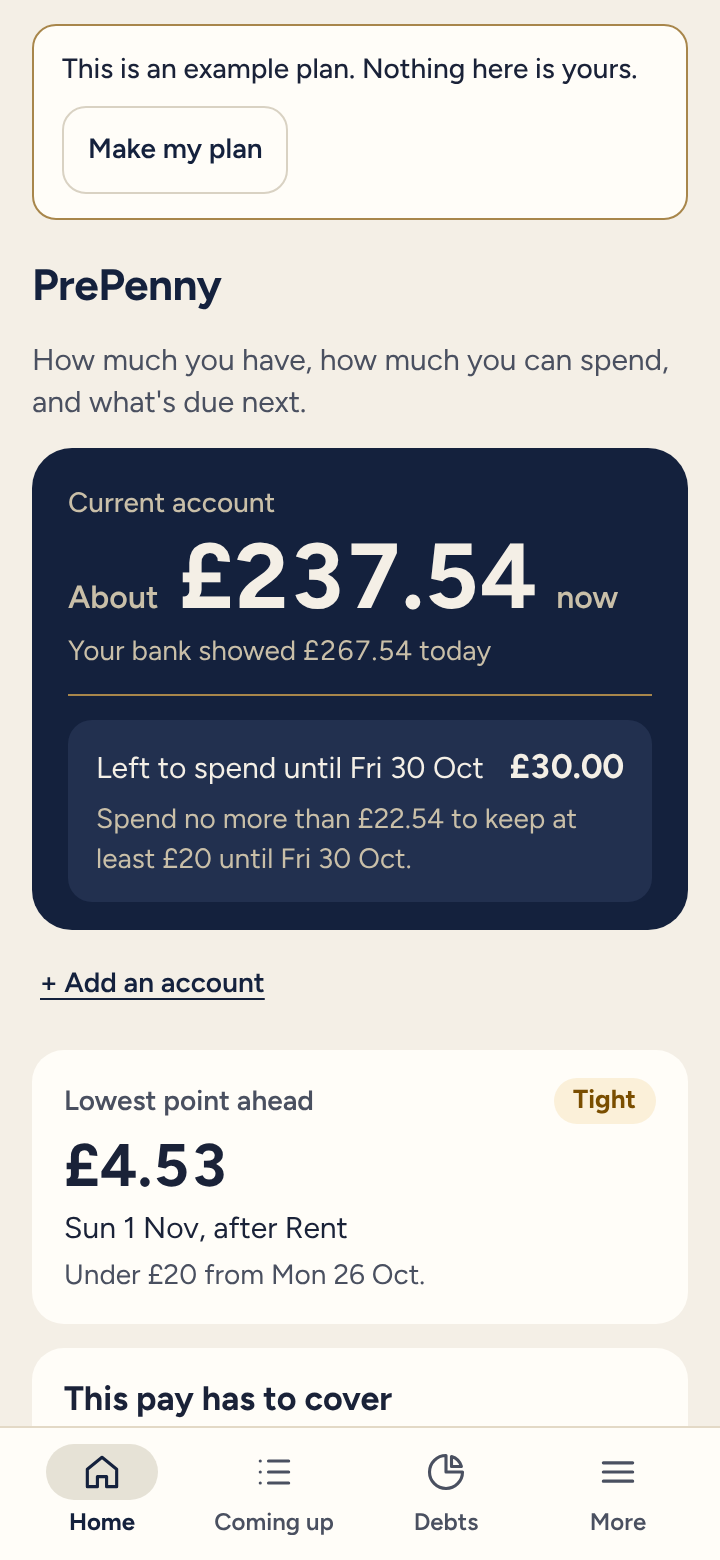
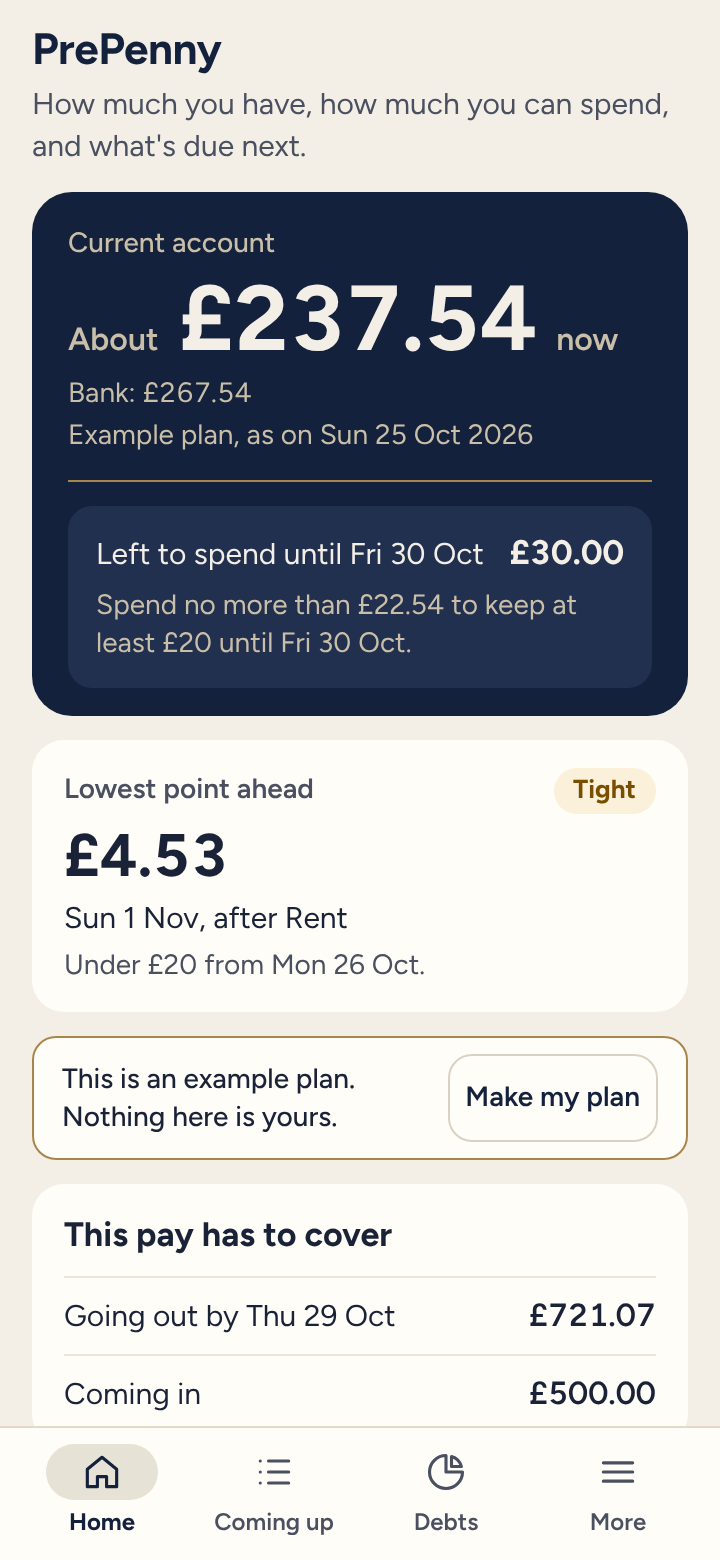
Step 3h: close what the outside review found (D481)
Deleting holds the person's plans, and removing a plan holds it, before
checking who's in it, so a partner joining at that moment is seen. A
lasting mark for everyone who has shared a plan, so importing a backup
can't get round "shared-plan". Nudges for the person's plans, and for
plans no longer there, go too. Putting a backup back skips anyone it
shouldn't touch. README part K: one Supabase setting, the database copy
of the sign-in log, off. 4 more database checks (66).

Claude-Session: https://claude.ai/code/session_01R7WB9spaRGhN1LPspox9RT

diff --git a/docs/ARCHITECTURE.md b/docs/ARCHITECTURE.md
@@ -748,7 +748,7 @@ The same pattern goes on every plan table. Every table starts with everything re
 - **Built in step 3f-2** (D426 to D437), in `supabase/migrations/20261114100000_bring_your_plan.sql`: `invites.allowed_at`; `app.invite_state` adds `allowed` (after `ran-out`, before `waiting`); `app.members_now` counts allowed invites as places taken; `app.plan_to_bring(person)` (their one plan, owned, nobody else in it); `app.invite_look(invite)` (step 3f's look, plus `invite` for the asker only, `brings` when a plan comes along, and `nation` and `own_nation` with it only once the invite is `allowed`, D439), used by `public.look_at_invite(token)` and the new `public.look_at_my_invite(invite)` (asker only). `public.answer_join` marks someone with a plan to bring `allowed_at` and nudges `plan:<their plan>:<them>`; `has-a-plan` for anyone in a plan they can't bring. `public.join_with_my_plan(invite, nation, edit, made_at)` (definer): locks the person's `people` row, the invite, the target plan (`for no key update`) and their own plan (`for update`, so every save to it finishes first or waits and fails); refuses `not-found`, the invite's state, `full`, `has-a-plan`, `nation-changed` (only when a plan comes along); adds the membership, begins the edit `join-with-plan`, sets `prepenny.edit` and calls `app.move_plan(old, target, me)`: reads every row of the old plan (live and removed) into `jsonb`, folds `private_links` back onto their series and ticks, moves `edits` (`private_to` the person), deletes the old plan, then inserts each row into the target through every trigger (`jsonb_populate_record`), parents first, a family's own series first, with `private_to`/`belongs_to` the person on accounts, debts, goals and pay profiles, `locked_to`/`mirrored_by` emptied on series, and ids from `app.derived_id(target, …)` for `payment_changes`, `ticks`, `pay_adjustment_details` and `settings`. Any other error is `bad-record`; then `app.family_rules_problem` on the moved families; the invite is `accepted`; nudges `plan:<target>`, `plan:<target>:<me>` and `plan:<old>:<me>`. `app.one_plan_each` refuses a new plan while its owner is in any plan (D427). `public.sharing` gives `asker` for an allowed invite and counts it as open. `app.my_joining()` and `hello()`'s `joining`. Tests: `25-bring-your-plan.test.sql`; `08`, `14`, `15` and `23` changed for D427 (D427 says how). Phone: `lib/sharing.ts` (`InviteLook.invite`, `.brings`, `.holidays` (only for an allowed invite, `lookOf`), `lookAtMyInvite`, `joinWithMyPlan`, `joiningOf`, `finishJoiningLink`, `inviteIdFrom`, problems `nation-changed` and `could-not-move`; `inviteLink` from `siteOrigin()`), `lib/site.ts` (`LIVE_SITE`, `OLD_LIVE_HOST`, `siteOrigin`, `liveAddressFor`), `data/joining.ts` (from `hello`), `data/sync.ts` (`sendEverythingThen`, which sends the queue then runs a task `inTurn` once nothing is waiting; `heldOnlyHere`). Screens: `JoinScreen.tsx` (bring lines, the bank holidays line, `allowed` with "Bring my plan and join" or straight away, `#invite=` from "Finish joining", saves an unsaved phone plan first with `connectPlan`), `FinishJoining.tsx` (in `AppShell`'s notes), `JoinRequest.tsx` and `ShareScreen.tsx` (`allowedBringing`), `OldAddress.tsx` (in `app/layout.tsx`). Cloudflare: `apps/web/cloudflare/worker.ts` (`movedTo`: a page visit at `OLD_LIVE_HOST` → 301 to `LIVE_SITE` with its path and query; anything else `env.ASSETS.fetch`), `wrangler.jsonc` `main`, `assets.binding` `ASSETS` and `run_worker_first` (`/*` but not `/_next/*`, `/version.json`, `/sw.js`, `/icons/*`, `/engine-worker-*` or `/manifest.webmanifest`, D438). `app.can_still_join` and `app.withdraw_other_asks` (D438); `answer_join` locks the asker's `people` row before the invite; `join_with_my_plan` checks `plan_to_bring` again after locking the old plan. Fixes: `withKind` in `lib/setup-forms.ts` (StepAccounts' `named` and AccountSheet's), `HomeView.account.now` (the engine's `expected`) and `movedSinceCheck` in `lib/home.ts`, `BalanceCard`'s `now`, `figureStyle(text, extra)`, Home's "+ Add an account" opening `AccountSheet`. Tests: `e2e/sharing.spec.ts` test 4, `e2e/answers-3f-2.spec.ts`, `e2e/old-address.spec.ts` with `e2e/old-address.wrangler.jsonc` (a second Wrangler on port 4174, over https with Wrangler's own certificate, in `playwright.config.ts`'s `webServer` list, as Chrome only opens `.dev` addresses over https; its browser is told prepenny.co.uk doesn't exist, so the live site is never opened, D439).
 - **Built in step 3g** (D454 to D466), in `supabase/migrations/20261115100000_living_together.sql`: `app.edit_records` (one row per record an edit saved: `before`/`after` from `app.history_copy`, `before_private`/`after_private`, `before_version`/`after_version`, `n` for the order; no policies, never on the Data API), filled by `app.keep_history()`, the trigger `z_keep_history` after insert or update on every record table and `plans` while `prepenny.edit` is set (none for `first-copy` or `join-with-plan`). `app.readable_now(plan, table, id)`, `app.version_now(...)`, `app.undoable(kind)`, `app.is_undone(edit)`, `app.undo_problem(plan, edit)` (`not-found` for anyone else's, `cant-undo`, `undone-already`, `changed-since`). `public.plan_activity(plan, older_than)` (definer: the person's own edits and the plan's shared ones, 12 months until D469, 50 at a time with `more`; each with `by`, `made_at`, `kind`, `mine`, `undone`, `undoes`, `can_undo`, `summary` for `change-role`/`make-private`/`share-record`, and `records`: copies readable then and now). `public.undo_change(plan, undone, edit, made_at)` (invoker: `app.undo_writes` then `save_edit(…, 'undo', writes)` then `app.mark_undone`, which sets `edits.undone_by` and the undo's `summary.undoes`). `public.change_role(plan, person, role)` (owner only; an `edits` row of kind `change-role`). `public.make_private(plan, what, record, edit, made_at)` and `public.share_record(plan, what, record, edit, made_at)` (`prepenny.sharing` holds the record; `app.privacy_step` in the replaced `app.check_owned_record` and `app.check_goal` lets only these steps change privacy; `app.put_links_back` and `app.keep_links_apart` keep links where `lib/sync-rows.ts` puts them; refusals `not-yours`, `partner-things`, `goal-here`, `move-together`, `share-has-halves`, `goal-in-private-account`, `view-only`). `public.plan_changes` gives each row's `edit_kind` and `created_by`. `app.check_series` lets a locked shared half name a shared goal (D464). Tests: `26-living-together.test.sql`. Engine: `NewOtherHalf.goalId`. Phone: `MirrorRow.editKind`/`createdBy`, `PlanLink.roles`, `data/shared-plan.ts` (`roles`, `sharedDebts`, `sharedGoals`, `lockedToAnyone`, `addedBy`, `marks`, `seriesVersion`, `hasPartner`, `myRole`, `partnerOf`), `lib/changed-by.ts` (`lastChange`, `agoWords`, `rowLine`, `changedByWords`), `lib/activity-words.ts` (`activityWords`, `activityEditsFrom`), `lib/put-in.ts`, `lib/sharing.ts` (`planActivity`, `undoChange`, `changeRole`, `makePrivate`, `shareRecord`), `GoalCard.savedFrom` and `startingAmount` in `lib/money-views.ts`. Screens: `ActivityScreen.tsx` (`/app/activity/`), `ChangedBy.tsx` (`ChangedByProvider` in `AppShell`, `useRowChangedBy`, `useSheetChangedBy`, `useShared`), `PaymentRow`'s `changedBy`, the edit sheet's line, `ShareScreen.tsx`'s `RoleSheet`, `ShareAccountsScreen.tsx`'s shared card, `WhoSees.tsx`, `StepSheet.tsx`, `privacy-step.ts`, and the goal sheet's move through `addPaymentCommand`. Tests: `e2e/together.spec.ts` (in the sign-in projects), `test/unit/living-together.test.ts`. From the outside review (D467): `app.server_kind(kind)`, `app.others_in(plan)` and `app.check_made_at(text)`; `save_edit`, replaced with the step 3d body, refuses the server's own kinds and a first copy beside anyone else ("bad-edit"); `make_private` holds its record `for update`, refuses ("partner-things", no ids) the other person's private links on the account's payments or holding a link's derived id, and saves again the person's own removed records on the account (not removed transfers to another account, nor removed halves); `app.put_links_back` writes only shared payments and the person's own; `app.keep_links_apart` never takes over another person's link. Tests: `27-living-together-review.test.sql`.
 - **Leaving and the lasting record** (step 3g, D468 to D474), in the same migration: `app.edit_records.context` (for a one-off change or a tick, its series or budget as it was then, for "from £550.00"). `public.plan_activity` keeps no 12-month limit and gives `people` (`app.names_in(plan)`: everyone who is or was a member, by nickname) and each record's `context`. `public.payment_history(plan, family, original_date)` (definer: every edit that saved the family's series or that date's one-off change or tick of a series in the family, newest first, with Activity's privacy rule; `not-found` for a payment the person can't read now). `public.leave_plan(plan, keep_copy, new_plan, edit, made_at)` (definer, one transaction): collects the leaver's private rows (`mine`) and, with `keep_copy`, every live shared row and every row of a family with a live shared one (`everything`), or else only shared accounts the leaver's own goals are kept in, with their live balance updates (`least`, D472); folds the leaver's `private_links` back by the shared record's id; in the shared plan, as a `leave` edit (shared, `summary.person`), clears `series.locked_to`/`paid_to`, and touches `payment_changes`, `ticks` and `pay_adjustments` locked to the leaver so their locks follow (`app.leaving_now()`, from `prepenny.leaving`, lets `app.check_series` and `app.check_pay_adjustment` allow it); deletes every row private to the leaver and their notices; deletes `edit_records` with `after_private` the leaver or naming a record that went, and empties `before` where `before_private` is the leaver, except in their own private edits; sets `left_at`, then, for the owner, makes the other member owner (`app.before_plan` allows the owner change while leaving), and cancels open invites; inserts the new plan (`prepenny.starting`) with the shared plan's nation; saves the rows through `app.leave_insert` and `app.leave_row` (copies' ids: `app.derived_id(new_plan, 'copy', table, id)`; derived ids for one-off changes, ticks, details and settings worked out for the new plan), first with the copy in a subtransaction and, if it fails, own rows only ("copied": false); moves the leaver's private edits and their `edit_records` to the new plan; nudges. `keep_history` keeps nothing for `leave` edits. Tests: `28-leaving.test.sql`, `29-payment-history.test.sql`. Phone: `lib/sharing.ts` (`leavePlan`, `paymentHistory`, the `alone` refusal), `lib/activity-words.ts` (`paymentAmountOf`/`paymentFactsOf`: the engine's `paymentByNumber` on a history copy; from-to words; `leave`; `activityPeopleFrom`), `lib/payment-history.ts` (`whatItDidToIt`, `historyLines`), `lib/left-note.ts` (session storage, "copied" or not only). Screens: `LeaveScreen.tsx` (`/app/share/leave/`), the Leave card on `ShareScreen.tsx`, `LeftNote.tsx` among the app's notes, `PaymentHistory.tsx` at the foot of the edit sheet. After leaving, the phone's `connectPlan` finds its plan gone from the account and brings the new one down in its place (as for any plan no longer in the account), then Home opens. Tests: `e2e/together.spec.ts` test 5, `test/unit/lasting-history.test.ts`.
-- **Built in step 3h** (D475 to D480), in `supabase/migrations/20261116100000_download_import_delete.sql`: `public.my_account_data()` (definer, the person's own account for Download my data: `email`, `signed_up_at`, `name`, `backup_email`, `two_step`, `google`, `devices` (`app.browser_of`/`app.device_of`, never an IP), `plans` (role, joined, left), `now`; "not-allowed" without a session). `public.replace_plan(old_plan, new_plan, nation)` (invoker: `remove_plan(old_plan)` when given, then `start_plan(new_plan, nation)`, in one transaction; refuses "not-found", "shared-plan", "has-a-plan"); the backup's records then go up as the new plan's `first-copy` through `save_edit`. `public.delete_my_account(confirm)` (definer; refuses "not-allowed", "sign-in-again" unless `app.fresh_sign_in()` (this session's `auth.sessions.created_at` in the last 10 minutes), "second-step-needed" unless `app.second_step_fresh()`, "confirm" unless `lower(btrim(confirm)) = 'delete'`, "shared-plan" while `app.ever_shared(person)` (any `plan_members` row of theirs in a plan with anyone else's, left or not), then `app.delete_person(me)` and `app.send_email` (a refused email doesn't stop it)). `app.delete_person(person)`: deletes their plans (everything cascades), clears `asked_by`/`asked_at`/`email` on invites they asked on (cancelling one still waiting) and `email` on invites to their addresses, deletes `app.email_codes`, `app.code_tries`, `app.code_locks` (by `app.address_key`), `app.code_asks`, `app.get_back_in`, `app.devices`, `realtime.messages` on `plan:%:<person>` and `auth.audit_log_entries` naming them (each where the database's role may), `auth.flow_state`, `auth.refresh_tokens`, then `auth.users` (identities, sessions, factors, one-time tokens, `people`, `plan_members`, `notices`, backup email cascade), and notes `app.deletions(person_key, deleted_at)` (`app.person_key`: SHA-256 of `app.address_secret` and the id), clearing rows older than 30 days. `app.delete_again_after_restore()` (database roles only). `public.hello()` says `sign_in: 'deleted'` when the token's person has no `auth.users` row. Tests: `30-download-import-delete.test.sql`. Phone: `lib/backup.ts` (`readBackup`, Zod schemas, `withNewIds`, `recordsForBackup`, `MOST_BYTES`, `MOST_OF`), `lib/backup-csv.ts` (`spreadsheetOf`), `data/your-data.ts` (`gatherMyData`, `backupFrom`, `saveFile`, `useOwnPlanId`), `data/sync.ts` (`importIntoAccount`, `importOnPhone`, the `deleted` standing), `lib/account.ts` (`sendCodeAgain`, `signInAgainWithCode`, `accountDeletedHere`, `accountDeletedOnServer`), `lib/security.ts` (`myAccountData`, `deleteMyAccount`), `components/YourDataCard.tsx`, `DownloadScreen.tsx`, `ImportScreen.tsx`, `DeleteScreen.tsx`, pages `/app/download/`, `/app/import/`, `/app/delete/`, and the welcome's `?account-deleted`, `?account-deleted-elsewhere` and `?removed`.
+- **Built in step 3h** (D475 to D480), in `supabase/migrations/20261116100000_download_import_delete.sql`: `public.my_account_data()` (definer, the person's own account for Download my data: `email`, `signed_up_at`, `name`, `backup_email`, `two_step`, `google`, `devices` (`app.browser_of`/`app.device_of`, never an IP), `plans` (role, joined, left), `now`; "not-allowed" without a session). `public.replace_plan(old_plan, new_plan, nation)` (invoker: `remove_plan(old_plan)` when given, then `start_plan(new_plan, nation)`, in one transaction; refuses "not-found", "shared-plan", "has-a-plan"); the backup's records then go up as the new plan's `first-copy` through `save_edit`. `public.delete_my_account(confirm)` (definer; refuses "not-allowed", "sign-in-again" unless `app.fresh_sign_in()` (this session's `auth.sessions.created_at` in the last 10 minutes), "second-step-needed" unless `app.second_step_fresh()`, "confirm" unless `lower(btrim(confirm)) = 'delete'`, "shared-plan" while `app.ever_shared(person)` (any `plan_members` row of theirs in a plan with anyone else's, left or not), then `app.delete_person(me)` and `app.send_email` (a refused email doesn't stop it)). `app.delete_person(person)`: deletes their plans (everything cascades), clears `asked_by`/`asked_at`/`email` on invites they asked on (cancelling one still waiting) and `email` on invites to their addresses, deletes `app.email_codes`, `app.code_tries`, `app.code_locks` (by `app.address_key`), `app.code_asks`, `app.get_back_in`, `app.devices`, `realtime.messages` on `plan:%:<person>` and `auth.audit_log_entries` naming them (each where the database's role may), `auth.flow_state`, `auth.refresh_tokens`, then `auth.users` (identities, sessions, factors, one-time tokens, `people`, `plan_members`, `notices`, backup email cascade), and notes `app.deletions(person_key, deleted_at)` (`app.person_key`: SHA-256 of `app.address_secret` and the id), clearing rows older than 30 days. `app.delete_again_after_restore()` (database roles only; skips anyone `app.ever_shared` and anyone it can't remove). From the outside review (D481): `app.shared_once` (everyone who has ever been in a plan with someone else, filled in by the trigger `note_shared` after insert on `plan_members`), read by `app.ever_shared`; `delete_my_account` holds the person's plans `for update`, and `public.remove_plan` the plan, before checking who's in it; `delete_person` also removes `realtime.messages` for the person's plans and any plan no longer there. `public.hello()` says `sign_in: 'deleted'` when the token's person has no `auth.users` row. Tests: `30-download-import-delete.test.sql`. Phone: `lib/backup.ts` (`readBackup`, Zod schemas, `withNewIds`, `recordsForBackup`, `MOST_BYTES`, `MOST_OF`), `lib/backup-csv.ts` (`spreadsheetOf`), `data/your-data.ts` (`gatherMyData`, `backupFrom`, `saveFile`, `useOwnPlanId`), `data/sync.ts` (`importIntoAccount`, `importOnPhone`, the `deleted` standing), `lib/account.ts` (`sendCodeAgain`, `signInAgainWithCode`, `accountDeletedHere`, `accountDeletedOnServer`), `lib/security.ts` (`myAccountData`, `deleteMyAccount`), `components/YourDataCard.tsx`, `DownloadScreen.tsx`, `ImportScreen.tsx`, `DeleteScreen.tsx`, pages `/app/download/`, `/app/import/`, `/app/delete/`, and the welcome's `?account-deleted`, `?account-deleted-elsewhere` and `?removed`.
 - Tests: `supabase/tests/database/*.test.sql` (pgTAP), with helpers and the Jess, Tom and Alex fixture in `supabase/seed.sql` (`tests.make_jess_and_tom(role)`, `tests.as_person(name)`, `tests.rows_naming(ids)` and others). Supabase loads the seed into the local database only. Run them with `supabase start` then `supabase test db`, and `supabase db lint --level warning`.
 
 ### 3.7 Records on the server only

diff --git a/PLAN.md b/PLAN.md
@@ -39,7 +39,7 @@ Progress against brief Part 9 (`docs/BRIEF.md`). Each phase is done in small ste
   - [x] 3f-2 Bring your plan with you, and four fixes. Done 10 Nov 2026, from the owner's answers to step 3f's questions and their testing of the live app. **Bring your plan** (D426): someone with a plan of their own, alone in it, can ask to join, and is told first that it comes with them, private to them, and, only once let in, what the other plan's bank holidays change (D439). "Allow" moves nothing: the joiner's phone sends everything it has, then the server makes them a member and moves every record of their plan, live and removed, into the other plan, private to them, through the same checks as every record, with their history and settings, and removes the old plan, all in one step or nothing (`join_with_my_plan`). The join page does it as soon as it's allowed, or after "Bring my plan and join" when the bank holidays differ; someone who closed it sees "Finish joining" on every screen. The inviter sees "Sam can join now" until it's done, and none of Sam's plan after. **Never in two plans** (D427): the database refuses a new plan while someone is in any plan, and someone already in a shared plan is told they can't join another. **The owner's four fixes:** setup's account name follows the type chosen until a name of one's own is typed, in Add an account too (A, D429); invite links always use prepenny.co.uk, and a page opened at prepenny.prepenny.workers.dev goes to the same page there, by a few lines in front of the app's files on Cloudflare and by the app itself where its offline helper serves the old address, while previews keep their own (B, D428); "+ Add an account" under Home's account card (C, D431); and Home's big figure "About £237.54 now" with "Your bank showed £267.54 today" when money has moved since the check, or the bank's figure and "Checked today" when it hasn't (D, D430). The owner confirmed D417, D418, D412 and D413 (D432 to D434). 836 database checks pass, 59 of them new, each new rule broken on purpose to see them fail; the new end-to-end tests pass at 320px and 360px in light and dark, with axe, against a local Supabase. Of the full end-to-end runs on the building computer, 800 tests passed; the only failures were item 56's Google test, which can't run there, and item 47's offline test, which then passed 3 runs in 3 on its own at each width and again in a later run of its file. An outside review found and fixed a race that could put someone in two plans, a "Finish joining" left behind after joining elsewhere, the Cloudflare script running for a file phones fetch every minute, and smaller things (D438). Before merging (D439): GitHub's newer browser only opens `.dev` addresses over https, so the old-address tests' http-only test copy failed there; it now runs over https, with the same checks. Then one of those tests opened the real live site from GitHub's computers, which can reach it, and took the live page's next request for the move; the test browser is now told prepenny.co.uk doesn't exist. And the inviter's bank holidays now show only after "Allow", so a stranger with a forwarded link learns nothing about the plan: 839 database checks pass, 62 of them in the bring-your-plan file. Screenshots are in `docs/screens/3f-2`. D426 to D434 are the owner's, D435 to D437 were decided along the way, D438 comes from the outside review, and D439 from the owner's review before merging.
   - [x] Home and wording polish. Done 12 Nov 2026, from the owner's decisions (D440 to D443). **Sam's example** says "Example plan, as on Sun 25 Oct 2026" under the balance, where it said "Checked today, Sun 25 Oct", and keeps the bank's figure without "today": "About £237.54 now", "Your bank showed £267.54", then the example's line. It still shows Sun 25 Oct 2026 as today (D133, D440). **"Overtime or missed shift"** on Home's fourth button, What if's button and the usual week's sentence, in place of "Extra/Missed shift"; at 320px it's two per row, on two even lines, with all four buttons the same height, and the sheet's title follows the choice, "I did overtime" or "I missed a shift", which it already did (D441). **"+ Add an account"** is under Home's four buttons, and on a 320 by 568 phone Home shows the account card, "About £X now" included, and the lowest point ahead without scrolling, in light and dark, on a plan of one's own: the PrePenny name on Home is as tall as its words and the balance card's top padding is 16px, which made the last 20px (D442). A test checks it on the day the bank was checked and a day later. The free pay calculator link waits for Phase 5's front page (D443). The new tests pass at 320px and 360px in light and dark, with axe. Of the full end-to-end run on the building computer at both phone widths, 628 passed; the only failures were item 47's offline test, which then passed 3 runs in 3 on its own at each width. The sign-in and database tests couldn't run there, as downloading Supabase's command line was refused, and run on GitHub once the pull request is ready (D444). Screenshots are in `docs/screens/polish`. D440 to D443 are the owner's, and D444 and D445 were decided along the way. **From the owner's answers, the same day** (D446 to D452): the pull request was marked ready, with GitHub running the sign-in tests (D446); the bank's line says "Bank: £267.54 today" or "Bank: £500.00 on Sun 8 Nov", always on one line at 320px, so the whole lowest point card shows on any day (D450), and the example keeps it as "Bank: £267.54" (D447); in the example, Coming up and Accounts say "£267.54, as on Sun 25 Oct 2026", never "today" (D448); and the example's banner sits under the lowest point on Home and is slimmer at the top of every other screen, so the example's lowest point shows on a 320 by 568 phone with only its last small line under the navigation, as the owner chose once a smaller banner at the top turned out not to be enough (D449, D451). The repository is public: README.md's test addresses are made-up ones, CLAUDE.md says never to put anything personal in the repository, and every file and screenshot was checked (D452). The full end-to-end run on the building computer after these answers, at both phone widths in light and dark: 636 passed, and the only failures were item 47's offline test, which then passed 3 runs in 3 on its own at each width.
   - [x] 3g Shared plans: living together. Done 12 Nov 2026, leaving and the lasting record included, with the owner's answers the same day (D468 to D471). **Leaving** (D468, D472, D473): anyone in a shared plan can leave it from Share with my partner, and nobody has to agree. Everything only they see goes with them into a plan of their own, with its history; every shared account stays with the other person as it is; they choose whether to take a copy of the shared accounts, which never updates; the other person's Activity keeps their shared changes, with their name. From that moment they get nothing more from the plan, and nothing private of theirs stays in it, which 63 database checks prove, with the owner's two security tests. If the owner leaves, the other person owns the plan. Home of the new plan says "You've left the plan.". **A lasting record** (D469, D474): each payment's edit sheet has a History list, "Tom changed it from £550.00 to £560.00, Tue 10 Nov, 2:05pm"; Activity says from what to what too; history is kept for as long as the plan exists, not 12 months, with the same privacy rule. **"Changed by Tom"**: a payment's row says "Changed by Tom, 2 hours ago" when the other person changed it in the last 7 days, and its edit sheet always says who changed it last ("Added by Jess, Tue 3 Nov", "Changed by you, just now"); Tom's change shows on Jess's phone, left open, within 5 seconds, by the live nudge of step 3c (D459, D460). **Activity**, under More and on Share with my partner: every change in plain words, by day (12 months at first, D456; for as long as the plan exists since D469), with "Undo this change" on the person's own and never on their partner's (D456, D457). The database now keeps every record each change saves, before and after, with who could read each copy then (D455); a partner gets only copies they could read then and can still read now, so nothing from before an account was shared, and nothing of one made private again, ever reaches them, and "Jess made a shared account private, so you no longer see it." names nothing (D458). Undo is the server's own step, refused for anyone else's change exactly as for one that doesn't exist, and when anything it changed has changed since (D457). **Roles**: the owner has "Change what Tom can do", which the server goes by from that moment; each person sees what they can do (D461). **Making a shared account private again**, by the person who shared it, not while the other has things of their own in it (D462). **Debts and goals** each say "Shared with Tom" or "Only you see this", with "Share this debt with Tom" and "Make it private" (D463); money from one's own account can go towards a shared goal as "From Jess" (D464), and a shared goal shows "What each of you has put in" (D465). The goal form's planned move from one's own account into a goal in a shared account is two halves too, as Add a payment's is (it was refused before). An outside review of the database changes found five holes, all closed with tests, among them a change sent as a kind that keeps no history, and what Jess removed from an account staying where Tom reads it once she made it private (D467). 947 database checks pass, 108 of them new, each new rule broken on purpose to see them fail; four end-to-end tests with two people on two phones pass at 320px and 360px in light and dark, with axe, against a local Supabase (D466). With leaving and History, 1,022 database checks pass on a fresh database, and five end-to-end tests with two phones. Screenshots are in `docs/screens/3g`. D454 and D468 to D471 are the owner's, D455 to D466 and D472 to D474 were decided along the way, and D467 comes from the outside review.
-  - [x] 3h Export, import and delete. Done 12 Nov 2026, apart from deleting an account in a shared plan, which is built once the owner answers the question below (D475). More has a **Your data** card. **Download my data** (D476) saves two files made on the phone: a spreadsheet (CSV) with a part for each kind of thing, the next 12 months with Left after this, and the history, and a backup (JSON) that Import a backup reads back; for someone signed in, both have their account, from the server's own step for them alone, and the plan's history in Activity's words and with Activity's rule, and never anything only their partner sees. **Import a backup** (D477) checks every field of the file before it's trusted (size, JSON, every record and field with Zod, how many, every link, then the engine), makes every id new, never reads who a record belongs to or who sees it, and, once the person says yes, puts the backup's plan in place of their own, in the account through `replace_plan` and a first copy, or on the phone when signed out; never into a shared plan. **Delete my account and all my data** (D478) needs a code emailed just now, the authenticator app's code when two-step sign-in is on, and "delete" typed; the database removes everything of the person's in one step, their sign-in included, keeps only a scrambled id for 30 days in case a backup is ever put back, and emails "Your PrePenny account has been deleted"; the person's other phones get nothing more and remove everything within a minute. Not signed in, "Remove everything from this phone". When it's gone from backups and logs is in D479: Supabase's free plan keeps no backups, its paid plan 7 days of daily ones, logs 1 or 7 days, and Resend its emails 30 days, so the app says "gone within 30 days". 1,084 database checks pass, 62 of them new, each new rule broken on purpose to see them fail; 42 new unit tests; six end-to-end tests at 320px and 360px in light and dark, with axe, against a local Supabase, and the three new screens in the every-screen checks. Screenshots are in `docs/screens/3h`. D475 is the owner's, and D476 to D480 were decided along the way.
+  - [x] 3h Export, import and delete. Done 12 Nov 2026, apart from deleting an account in a shared plan, which is built once the owner answers the question below (D475). More has a **Your data** card. **Download my data** (D476) saves two files made on the phone: a spreadsheet (CSV) with a part for each kind of thing, the next 12 months with Left after this, and the history, and a backup (JSON) that Import a backup reads back; for someone signed in, both have their account, from the server's own step for them alone, and the plan's history in Activity's words and with Activity's rule, and never anything only their partner sees. **Import a backup** (D477) checks every field of the file before it's trusted (size, JSON, every record and field with Zod, how many, every link, then the engine), makes every id new, never reads who a record belongs to or who sees it, and, once the person says yes, puts the backup's plan in place of their own, in the account through `replace_plan` and a first copy, or on the phone when signed out; never into a shared plan. **Delete my account and all my data** (D478) needs a code emailed just now, the authenticator app's code when two-step sign-in is on, and "delete" typed; the database removes everything of the person's in one step, their sign-in included, keeps only a scrambled id for 30 days in case a backup is ever put back, and emails "Your PrePenny account has been deleted"; the person's other phones get nothing more and remove everything within a minute. Not signed in, "Remove everything from this phone". When it's gone from backups and logs is in D479: Supabase's free plan keeps no backups, its paid plan 7 days of daily ones, logs 1 or 7 days, and Resend its emails 30 days, so the app says "gone within 30 days". An outside review found no way to reach anyone else's account, and found and fixed a race between deleting and a partner joining, a way round "has shared a plan" by importing, nudges left behind, and a slow read of Supabase's sign-in log, for which the owner turns one setting off (D481, README.md part K). 66 new database checks, each new rule broken on purpose to see them fail; 42 new unit tests; six end-to-end tests at 320px and 360px in light and dark, with axe, against a local Supabase, and the three new screens in the every-screen checks. Screenshots are in `docs/screens/3h`. D475 is the owner's, D476 to D480 were decided along the way, and D481 comes from the outside review.
   - [ ] 3i Phase 3 checks. Brief 8.7 tests 1 to 6 on two phones, a security test that tries every request Tom could make for Jess's private account, the six people's journeys again with sign-in and sync, and an outside review.
   - The owner set up the Supabase project with README.md's "The database" (step 3a), and bought prepenny.co.uk and prepenny.com on 6 Nov 2026 (D304). For signing in, the owner sets up the web addresses, Resend and a Google Cloud project with README.md's "Signing in" (step 3b).
 - [ ] **Phase 4: polish**

diff --git a/docs/DECISIONS.md b/docs/DECISIONS.md
@@ -5742,7 +5742,7 @@ Decided 12 Nov 2026 in step 3h. Builds brief 4.12, 4.13 and 7.2; changes D17's "
 - **Their other phones get nothing more**: every rule needs the sign-in session, which went with the account, so every request is refused and the live channel names a plan that's gone. While their sign-in token lasts (up to an hour), `hello` says "deleted", so each removes everything at its next look, within a minute, a change not sent included, with "This account has been deleted, so nothing of it is left on this phone." After that, Supabase's client can't renew the sign-in, and the phone does what it does for a sign-in that ended (D326).
 - **Not signed in**: the plan is only on the phone, so the screen says "You're not signed in, so your plan is kept only on this phone." with **Remove everything from this phone** (a sheet asks first), then "Everything PrePenny kept on this phone has been removed.", and "Have an account? Sign in first to delete it."
 
-Test: `30-download-import-delete.test.sql` (parts 3 to 6, 62 checks in all: every refusal, nothing anywhere in the database naming the person's id, address or backup address afterwards, in any table of any part, the email queued with no amount in it, Jess's plan untouched, his phones' token reading, saving, starting, hearing and downloading nothing, and the deletion made again after a backup is put back), `apps/web/e2e/your-data.spec.ts` tests 4 to 6. Each new rule was broken on purpose to see the checks fail: without the 10-minute check, the sign-in-again check failed and the run stopped; without the log and address clean-up, 3 failed; without the shared-plan refusal, 6 failed. Screenshots: `docs/screens/3h/delete-360-light.png`, `delete-check-360-light.png`, `deleted-360-light.png`.
+Test: `30-download-import-delete.test.sql` (parts 3 to 6, 66 checks in all with D481's: every refusal, nothing anywhere in the database naming the person's id, address or backup address afterwards, in any table of any part, the email queued with no amount in it, Jess's plan untouched, his phones' token reading, saving, starting, hearing and downloading nothing, and the deletion made again after a backup is put back), `apps/web/e2e/your-data.spec.ts` tests 4 to 6. Each new rule was broken on purpose to see the checks fail: without the 10-minute check, the sign-in-again check failed and the run stopped; without the log and address clean-up, 3 failed; without the shared-plan refusal, 6 failed. Screenshots: `docs/screens/3h/delete-360-light.png`, `delete-check-360-light.png`, `deleted-360-light.png`.
 
 Why: the owner's instruction: "really deletes it: their records, history, devices, backup email, sign-in and everything else", "a fresh sign-in, and the two-step code when that's on", "the person types a confirmation, and an email confirms it's done", and "a deleted person's devices get nothing more".
 
@@ -5762,9 +5762,27 @@ Why: the owner's instruction: "Find out how long Supabase keeps backups on the f
 
 Decided 12 Nov 2026 in step 3h.
 
-- `supabase/tests/database/30-download-import-delete.test.sql`, 62 checks, on step 3a's `tests.make_jess_and_tom()` with Alex, who has a plan of his own; `00-every-table.test.sql` lists the three new steps. 1,084 database checks pass on the local database.
+- `supabase/tests/database/30-download-import-delete.test.sql`, 66 checks with the outside review's (D481), on step 3a's `tests.make_jess_and_tom()` with Alex, who has a plan of his own; `00-every-table.test.sql` lists the three new steps.
 - `apps/web/test/unit/backup.test.ts` (35) and `backup-csv.test.ts` (7).
 - `apps/web/e2e/your-data.spec.ts`, six tests at 320px and 360px in light and dark, with axe, against the local Supabase: 24 runs, all passing. Download, Import a backup and Delete my account join the every-screen checks (`checks.spec.ts`: axe, keyboard, 200% text, reduced motion, offline and nothing sent), as the example plan sees them: 12 runs, all passing.
 - Smaller choices: Zod is set to check without making code at run time (`jitless`), as the security policy allows no eval (found by the every-screen checks); Zod is the one new package, exactly 4.6.7, a month old, the version ARCHITECTURE.md planned; the email code for "Check it's you" never makes an account (`shouldCreateUser: false`); the "Code from the email" box and the typed word are on one form, so it's one tap after the code arrives; "delete" is lower case in the words, and any case is taken.
 
 Why: the owner's list of what the tests must prove.
+
+## From the outside review of step 3h
+
+### D481. What the outside review of step 3h changed
+
+Decided 12 Nov 2026 in step 3h, from an outside review of its database steps and the import's checks, which tried each hole on the local database and forged files against `readBackup`. It found no way for anyone to download, import into or delete someone else's account, or to make an imported record someone else's. Adds to D477 and D478.
+
+- **Deleting, or importing, at the very moment a partner joins** could have removed the joiner's newly brought plan: the check of who's in the plan came before the plan was held. Now deleting holds the person's plans, and removing a plan (for an import, or "Keep the plan on this phone") holds that plan, before checking who's in it, so a join under way finishes first and is then seen, and the step is refused. Worked out from the code; a test needs two sessions at once, which the database tests can't do. Accepted: a join that starts at the very moment its plan is being deleted fails with the database's own error, and nothing changes.
+- **"Has shared a plan" could be got round**: once Tom had left, Jess could import a backup in place of the plan he'd been in, which took away the only sign that she'd shared it, and then delete her account. Now the database keeps a mark for everyone who has ever been in a plan with someone else (`app.shared_once`, filled in as anyone joins, and for everyone already so), which removing a plan doesn't take away.
+- **Nudges for a person's plan** (live updates naming the plan, not the person) stayed after deleting. Now deleting removes the nudges for the person and their plans, and any for a plan that's no longer there, such as one a backup replaced.
+- **Supabase's own sign-in log in the database** (`auth.audit_log_entries`) has no index the database may add, so deleting reads all of it: about 2.3 seconds for a million rows, against the 8 seconds a request may take. Supabase adds a row at every sign-in and every hourly renewal, so with many people it could grow past what deleting can read. Supabase lets the database copy be switched off (Authentication, Audit Logs, "Write audit logs to the database"), keeping the log in its own log storage, which it keeps 1 or 7 days (D479). It's a new setting for the owner (README.md part K): with it off, the table stops growing, and deleting stays quick.
+- **Putting a backup of the database back** now skips anyone in a plan with someone else, and anyone the database won't remove, and says how many it left, rather than stopping.
+- **Any problem sending the deletion email** leaves the deletion done, not just "emails switched off".
+- **Accepted**: a phone that stays offline for longer than its sign-in token lasts (an hour) never hears "deleted"; if it has changes not sent, it keeps the plan as a phone whose sign-in ended does (D326, D478), with nothing left on the server to send them to. The test that searches every table for the person can't read pg_net's queue of emails waiting to go, which holds the deletion email itself until it's sent; that email is checked on its own.
+
+Test: `30-download-import-delete.test.sql` (4 new checks, 66 in all: importing in place of a plan someone left still leaves the person waiting for the owner's choice, and the mark can't be read). Taking the mark out fails 2 of them.
+
+Why: each was shown by the review with a case that went wrong, or by reading the code.

diff --git a/README.md b/README.md
@@ -611,9 +611,16 @@ Your own account is never touched: the query only finds the addresses typed on i
 
 ### K. Step 3h: download, import and delete
 
-**What you need to set up: nothing new.** Checked one by one, in this step's own changes:
+**What you need to set up: one setting in Supabase, two minutes.** Deleting an account also removes the person from Supabase's own sign-in log when that log is kept in the database. That log grows with every sign-in, and the database can only read all of it, so turn off its database copy and deleting stays quick (D481). Supabase still keeps the log in its own log storage, for 1 day on the free plan and 7 on the paid plan.
 
-- **Supabase.** The **Database** workflow adds this step's database changes with the key it already has, after its key check of all eleven permissions (D406). No new sign-in setting, web address, email template, function or permission. "Check it's you", before deleting, sends the same 6-digit sign-in email as signing in (part E's template). Deleting an account removes it from Supabase's sign-in tables inside the database itself, as signing devices out already does (step 3e), so no new key or function is needed. Backups: the free plan has none, and there's nothing to switch on; the paid plan's daily backups come with the move to it before launch (launch checklist, item 3).
+1. On supabase.com, open the **prepenny** project, then **Authentication** in the menu on the left.
+2. Under **Configuration**, open **Audit Logs**. (Supabase moves its menus now and then: it may be under **Settings** instead.)
+3. Turn **Write audit logs to the database** off, and save if there's a **Save** button.
+4. That's all. If you can't find it, nothing breaks for now: deleting only slows down once there are hundreds of thousands of sign-ins, long after launch.
+
+Everything else, checked one by one, in this step's own changes, is nothing new:
+
+- **Supabase.** The **Database** workflow adds this step's database changes with the key it already has, after its key check of all eleven permissions (D406). No other new sign-in setting, web address, email template, function or permission. "Check it's you", before deleting, sends the same 6-digit sign-in email as signing in (part E's template). Deleting an account removes it from Supabase's sign-in tables inside the database itself, as signing devices out already does (step 3e), so no new key or function is needed. Backups: the free plan has none, and there's nothing to switch on; the paid plan's daily backups come with the move to it before launch (launch checklist, item 3).
 - **Resend.** One new email, "Your PrePenny account has been deleted", from hello@prepenny.co.uk, through the same key in Supabase's Vault (part F). Resend's free plan allows 100 emails a day.
 - **GitHub.** No new secret or variable, and no workflow changed. The new end-to-end tests run in the sign-in tests' parts, which already start a local Supabase: about 5 more minutes across the three parts.
 - **Cloudflare.** Nothing new: Download my data, Import a backup and Delete my account are ordinary pages, and the files are made on the phone.
